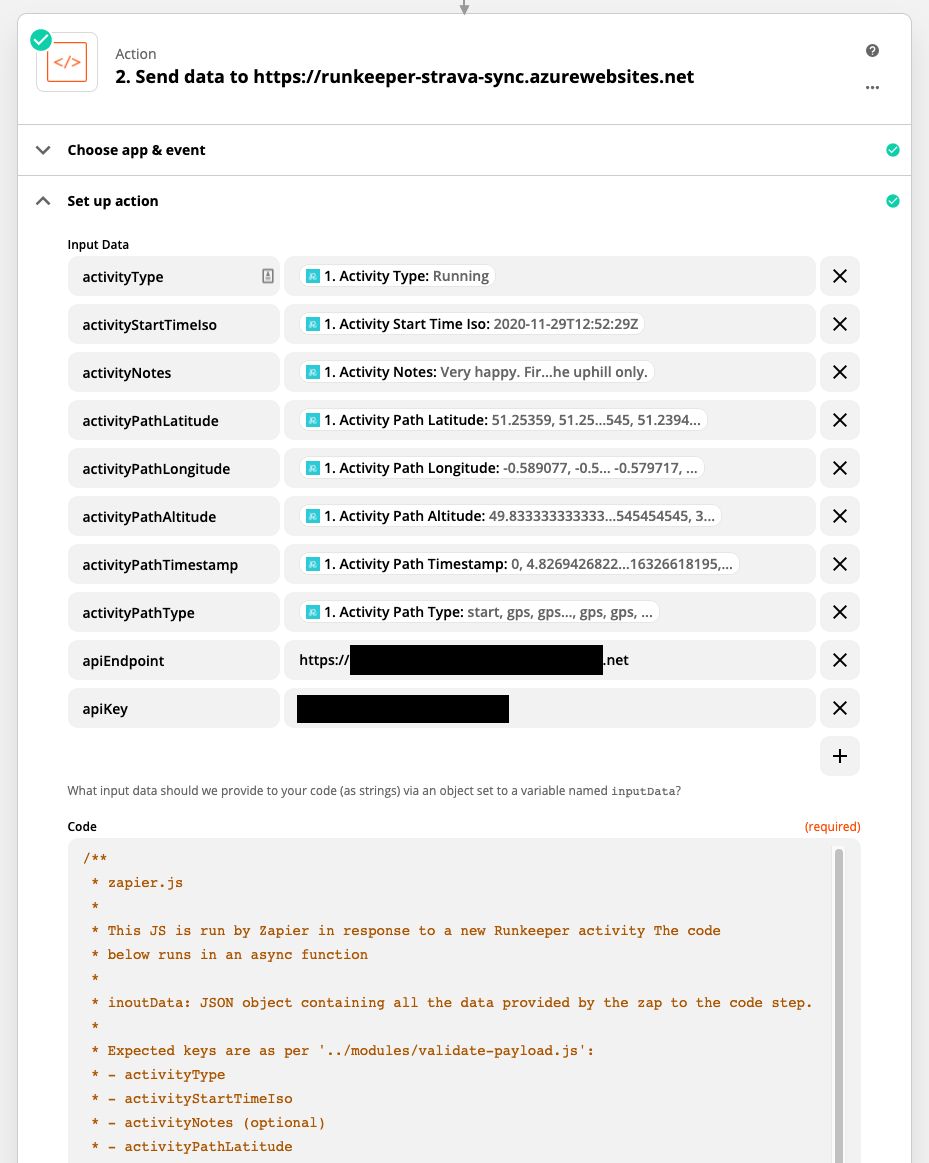
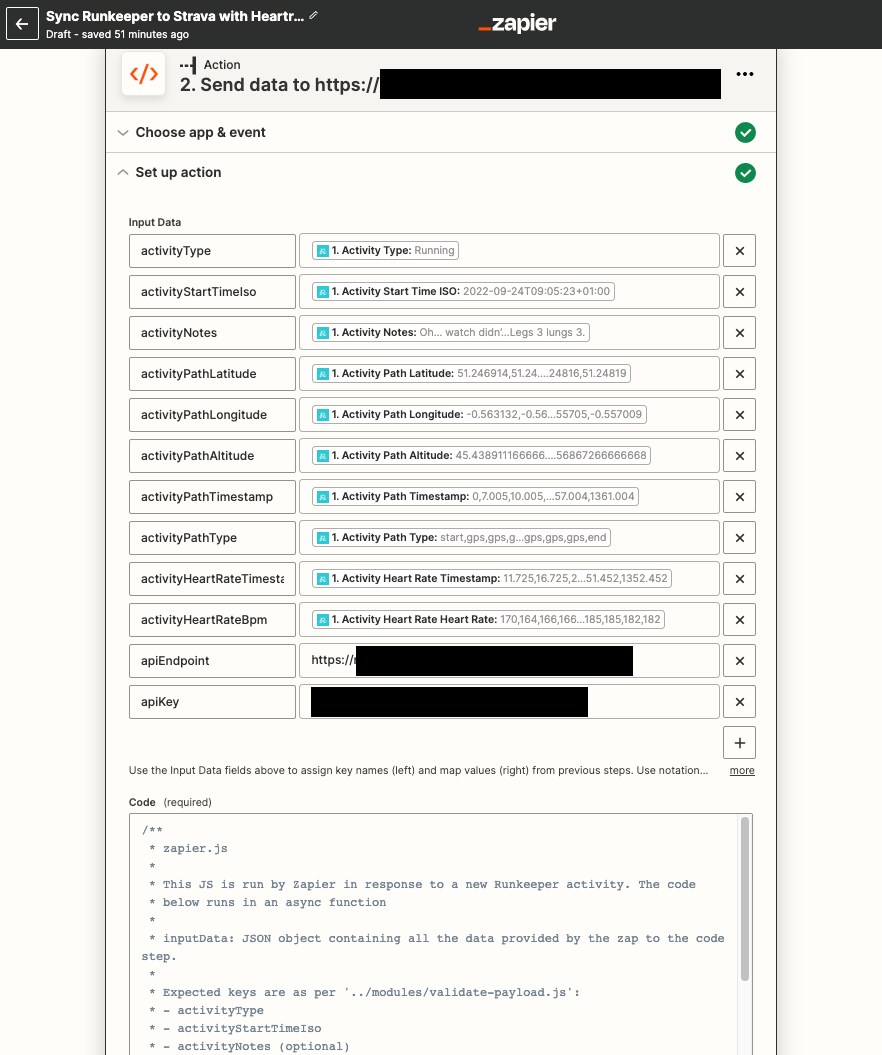
Improved validate-payload to expect heartrate data and differentiate between invalid vs optional data

diff --git a/modules/validate-payload.js b/modules/validate-payload.js
@@ -8,24 +8,42 @@
 function validatePayload(data) {
 
   let expectedKeys = [
-    'activityType',
-    'activityStartTimeIso',
-    //'activityNotes', // Optional
-    'activityPathLatitude',
-    'activityPathLongitude',
-    'activityPathAltitude',
-    'activityPathTimestamp',
-    'activityPathType'
+    { keyName: 'activityType', required: true},
+    { keyName: 'activityStartTimeIso', required: true },
+    { keyName: 'activityNotes', required: false },
+    { keyName: 'activityPathLatitude', required: true },
+    { keyName: 'activityPathLongitude', required: true },
+    { keyName: 'activityPathAltitude', required: true },
+    { keyName: 'activityPathTimestamp', required: true },
+    { keyName: 'activityPathType', required: true },
+    { keyName: 'activityHeartRateTimestamp', required: false },
+    { keyName: 'activityHeartRateBpm', required: false }
   ];
 
   let validPayload = true;
 
-  // Check for presence of all the keys
-  for(i=0; i<expectedKeys.length; i++) {
+  // Check for any invalid keys
+  let validKeyNames = expectedKeys.map(a => a.keyName);
+  let dataKeyNames = Object.keys(data);
 
-    expected = expectedKeys[i];
+  for(i = 0; i < dataKeyNames.length; i++) {
+    
+    if( !validKeyNames.includes(dataKeyNames[i]) ) {
+      validPayload = false;
+      break;      
+    }
 
-    if(typeof data[expected] === "undefined") {
+  }
+
+  // Check for presence of all the required keys
+  for(i = 0; i < expectedKeys.length; i++) {
+
+    expectedKeyName = expectedKeys[i].keyName;
+
+    if(
+      typeof data[expectedKeyName] === "undefined" 
+      && expectedKeys[i].required === true 
+    ) {
       validPayload = false;
       break;
     }

diff --git a/external/zapier.js b/external/zapier.js
@@ -17,6 +17,8 @@
  * - activityPathType
  * - apiEndpoint
  * - apiKey
+ * - activityHeartRateTimestamp (optional)
+ * - activityHeartRateBpm (optional)
  */
 const API_ENDPOINT = inputData.apiEndpoint || null;
 const API_KEY = inputData.apiKey || null;
